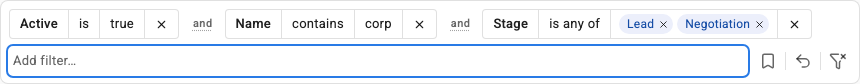
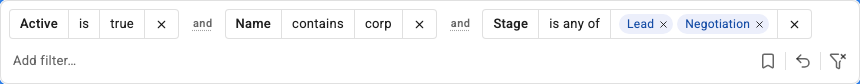
Polish filter demo and focus states

diff --git a/end-to-end/layout-resilience.spec.ts b/end-to-end/layout-resilience.spec.ts
@@ -72,7 +72,8 @@ test.describe('layout resilience', () => {
       const inputStyle = getComputedStyle(input);
       return {
         borderStyle: rowStyle.borderBlockStartStyle,
-        focusStyle: inputStyle.outlineStyle,
+        inputFocusStyle: inputStyle.outlineStyle,
+        rowFocusStyle: rowStyle.outlineStyle,
         surface: rowStyle.backgroundColor,
         text: formStyle.color,
         textToken: formStyle.getPropertyValue('--filter-text').trim(),
@@ -81,7 +82,8 @@ test.describe('layout resilience', () => {
     });
 
     expect(styles.borderStyle).toBe('solid');
-    expect(styles.focusStyle).toBe('solid');
+    expect(styles.inputFocusStyle).toBe('none');
+    expect(styles.rowFocusStyle).toBe('solid');
     expect(styles.surface).not.toBe('rgba(0, 0, 0, 0)');
     expect(styles.text).not.toBe('rgba(0, 0, 0, 0)');
     expect(styles.textToken).not.toContain('var(');
@@ -217,7 +219,7 @@ test.describe('layout resilience', () => {
     await expectFilterRowDoesNotOverflow(page);
   });
 
-  test('the add-filter input has a visible keyboard focus indicator', async ({
+  test('the add-filter input indicates keyboard focus on the full row', async ({
     page,
   }) => {
     await openReadyDemo(page);
@@ -225,11 +227,41 @@ test.describe('layout resilience', () => {
     await expect(addFilterInput(page)).toBeFocused();
     await expect
       .poll(() =>
+        page
+          .locator('.filter-row')
+          .evaluate((row) => getComputedStyle(row).outlineStyle),
+      )
+      .toBe('solid');
+    await expect
+      .poll(() =>
         addFilterInput(page).evaluate(
           (input) => getComputedStyle(input).outlineStyle,
         ),
       )
+      .toBe('none');
+  });
+
+  test('an action button keeps its compact focus ring without activating the row', async ({
+    page,
+  }) => {
+    await openReadyDemo(page);
+    const savedViewsButton = page.getByRole('button', { name: 'Saved views' });
+    await savedViewsButton.focus();
+    await expect(savedViewsButton).toBeFocused();
+    await expect
+      .poll(() =>
+        savedViewsButton.evaluate(
+          (button) => getComputedStyle(button).outlineStyle,
+        ),
+      )
       .toBe('solid');
+    await expect
+      .poll(() =>
+        page
+          .locator('.filter-row')
+          .evaluate((row) => getComputedStyle(row).outlineStyle),
+      )
+      .toBe('none');
   });
 
   test('a destructive draft action keeps its focus ring while hovered', async ({

diff --git a/end-to-end/saved-views.spec.ts b/end-to-end/saved-views.spec.ts
@@ -144,8 +144,19 @@ test.describe('saved views', () => {
       exact: true,
     });
     await expect(activeDeals).toBeFocused();
+    const activeDealsRow = activeDeals.locator('..');
+    await expect
+      .poll(() =>
+        activeDealsRow.evaluate((row) => getComputedStyle(row).outlineStyle),
+      )
+      .toBe('solid');
+    await expect
+      .poll(() =>
+        activeDeals.evaluate((button) => getComputedStyle(button).outlineStyle),
+      )
+      .toBe('none');
 
-    // Arrows wrap; Home/End jump; ArrowRight/ArrowLeft reach the × button.
+    // Arrows wrap; Home/End jump; ArrowRight/ArrowLeft reach the trash button.
     await page.keyboard.press('ArrowDown');
     await expect(corpDeals).toBeFocused();
     await page.keyboard.press('ArrowDown');
@@ -155,9 +166,26 @@ test.describe('saved views', () => {
     await page.keyboard.press('Home');
     await expect(activeDeals).toBeFocused();
     await page.keyboard.press('ArrowRight');
-    await expect(
-      popover(page).getByRole('button', { name: 'Remove view: Active deals' }),
-    ).toBeFocused();
+    const removeActiveDeals = popover(page).getByRole('button', {
+      name: 'Remove view: Active deals',
+    });
+    await expect(removeActiveDeals).toBeFocused();
+    await expect
+      .poll(() =>
+        removeActiveDeals.evaluate((button) => {
+          const style = getComputedStyle(button);
+          return {
+            borderRadius: style.borderRadius,
+            outlineStyle: style.outlineStyle,
+          };
+        }),
+      )
+      .toEqual({ borderRadius: '50%', outlineStyle: 'solid' });
+    await expect
+      .poll(() =>
+        activeDealsRow.evaluate((row) => getComputedStyle(row).outlineStyle),
+      )
+      .toBe('none');
     await page.keyboard.press('ArrowLeft');
     await expect(activeDeals).toBeFocused();
 

diff --git a/src/example/application.tsx b/src/example/application.tsx
@@ -12,7 +12,7 @@ import {
 } from '@/example/records.ts';
 import type { Deal } from '@/example/records.ts';
 import '@/components/filter/filter-component.css';
-import '@/example/demo.css';
+import '@/example/example.css';
 
 type LogEntry = {
   id: number;
@@ -69,7 +69,8 @@ function ResultCount({ filteredDeals }: { filteredDeals: Deal[] | null }) {
   if (!filteredDeals) return null;
   return (
     <span className="demo-count">
-      <strong>{filteredDeals.length}</strong> of {DEALS.length} deals
+      <strong>{filteredDeals.length}</strong> of <strong>{DEALS.length}</strong>{' '}
+      deals
     </span>
   );
 }
@@ -218,24 +219,22 @@ function Application() {
         onChange={handleFiltersChange}
       />
 
-      <output className="demo-status">
+      <div className="demo-status">
+        <label>
+          <input
+            type="checkbox"
+            checked={disabled}
+            onChange={(event) => setDisabled(event.target.checked)}
+          />
+          Disabled
+        </label>
         <ResultCount filteredDeals={filteredDeals} />
-      </output>
+      </div>
 
       <DealsTable filteredDeals={filteredDeals} />
 
-      <section aria-label="Example harness" className="demo-harness">
-        <div className="demo-harness-bar">
-          <label>
-            <input
-              type="checkbox"
-              checked={disabled}
-              onChange={(event) => setDisabled(event.target.checked)}
-            />
-            Disabled
-          </label>
-        </div>
-        <div className="demo-harness-panes">
+      <section aria-label="Example harness" className="example">
+        <div className="example-panes">
           <div>
             <h2>Current state</h2>
             <pre>{JSON.stringify(currentFilters, null, 2)}</pre>

diff --git a/src/components/filter/filter-saved-views.css b/src/components/filter/filter-saved-views.css
@@ -46,6 +46,11 @@
   display: flex;
   align-items: stretch;
 
+  &:has(.filter-saved-views-load:focus-visible) {
+    outline: var(--filter-focus-ring);
+    outline-offset: -2px;
+  }
+
   /* The active view (its group matches the current one) is tinted; the check
      in the load button carries the same state without relying on color. */
   &.is-active {
@@ -66,6 +71,10 @@
 
   &:hover {
     background: var(--filter-surface-hover);
+  }
+
+  &:focus-visible {
+    outline: none;
   }
 }
 
@@ -100,8 +109,15 @@
 
 .filter-saved-views-remove {
   display: flex;
+  flex: none;
   align-items: center;
-  padding: 0 10px;
+  justify-content: center;
+  align-self: center;
+  width: 28px;
+  height: 28px;
+  margin-inline: 4px;
+  padding: 0;
+  border-radius: 50%;
   color: var(--filter-text-muted);
 
   &:hover {

diff --git a/src/components/filter/filter.css b/src/components/filter/filter.css
@@ -158,6 +158,13 @@
   border: 1px solid var(--filter-border);
   border-radius: var(--filter-radius-container);
   background: var(--filter-surface);
+
+  /* Text entry belongs to the filter row as a whole. Keep its focus state on
+     the container; compact action buttons retain their own circular rings. */
+  &:has(.filter-add-input:focus-visible) {
+    outline: var(--filter-focus-ring);
+    outline-offset: 1px;
+  }
 }
 
 /* The composer-and-actions block: the add-filter input and the rail as a
@@ -187,12 +194,6 @@
 
   &::placeholder {
     color: var(--filter-text-placeholder);
-  }
-
-  &:focus-visible {
-    outline: var(--filter-focus-ring);
-    outline-offset: 1px;
-    background: var(--filter-surface);
   }
 }
 

diff --git a/src/example/application.test.tsx b/src/example/application.test.tsx
@@ -13,9 +13,13 @@ describe('Application (demo parent)', () => {
     const activeDeals = DEALS.filter((deal) => deal.active === true);
     // The count is split across a <strong> and a text node, so match on the
     // container's full text content rather than a single node.
-    expect(screen.getByText(/of \d+ deals/)).toHaveTextContent(
+    const resultCount = screen.getByText(
+      (_content, element) => element?.classList.contains('demo-count') ?? false,
+    );
+    expect(resultCount).toHaveTextContent(
       `${activeDeals.length} of ${DEALS.length} deals`,
     );
+    expect(resultCount.querySelectorAll('strong')).toHaveLength(2);
     expect(screen.getByText('Acme Corp renewal')).toBeInTheDocument();
     expect(screen.queryByText('Globex onboarding')).not.toBeInTheDocument();
   });

diff --git a/end-to-end/history-and-incomplete-drafts.spec.ts b/end-to-end/history-and-incomplete-drafts.spec.ts
@@ -182,9 +182,7 @@ test.describe('incomplete drafts', () => {
     await page.getByRole('heading', { name: 'Filter' }).click();
     // Results still reflect only the committed seed filter.
     await expect(resultCount(page)).toHaveText('8 of 12 deals');
-    await expect(page.locator('.demo-harness-panes pre')).not.toContainText(
-      'zzz',
-    );
+    await expect(page.locator('.example-panes pre')).not.toContainText('zzz');
   });
 
   test('starting a new composition replaces the incomplete draft when abandoned again', async ({

diff --git a/src/components/filter/filter-saved-views.tsx b/src/components/filter/filter-saved-views.tsx
@@ -1,4 +1,4 @@
-import { Bookmark, Check, Plus, X } from 'lucide-react';
+import { Bookmark, Check, Plus, Trash2, X } from 'lucide-react';
 import { useEffect, useId, useReducer, useRef } from 'react';
 import type { KeyboardEvent, ReactNode, RefObject } from 'react';
 import {
@@ -474,7 +474,7 @@ export function SavedViewsControls({
                       title="Remove this view"
                       onClick={() => removeView(view)}
                     >
-                      <X aria-hidden="true" size={13} />
+                      <Trash2 aria-hidden="true" size={14} />
                     </button>
                   </li>
                 );

diff --git a/end-to-end/helpers.ts b/end-to-end/helpers.ts
@@ -34,7 +34,7 @@ export const liveRegion = (page: Page): Locator =>
 
 /** The onChange payload pane rendered by the demo parent. */
 export const onChangePayloadPane = (page: Page): Locator =>
-  page.locator('.demo-harness-panes pre');
+  page.locator('.example-panes pre');
 
 /**
  * Load the demo and wait for the seeded "Active is true" filter to apply